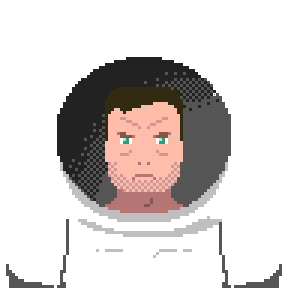
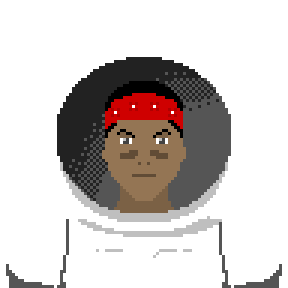
pick diff humans

Changed region(s): [[0.3438, 0.2812, 0.6562, 0.75], [0.7188, 0.2812, 0.75, 0.3125]]

diff --git a/client/src/views.js b/client/src/views.js
@@ -245,7 +245,7 @@ export const Reveal = React.createClass({
   },
 
   render () {
-    const { role, onReady } = this.props;
+    const { role, onReady, index } = this.props;
     const { show, hasShown } = this.state;
     const instruction = supportsMultiTouch() ? 'two-finger press' : 'click and hold';
     return (
@@ -263,7 +263,7 @@ export const Reveal = React.createClass({
           />
           <img
             className={`center-block img-responsive img-reveal img-reveal-${show ? 'opaque' : 'transparent'}`}
-            src={`images/astronaut_${role === WEREWOLF ? 'terror' : 'human'}.png`}
+            src={`images/astronaut_${role === WEREWOLF ? 'terror' : 'human' + (index % 4)}.png`}
             alt="Astronaut Revealed"
           />
         </div>

diff --git a/client/src/App.js b/client/src/App.js
@@ -51,6 +51,7 @@ const Lobby = connect(
 const Reveal = connect(
   state => ({
     role: _.findWhere(state.game.players, {id: state.userId}).role,
+    index: _.findIndex(_.where(state.game.players, {role: VILLAGER}), {id: state.userId}),
   }),
   dispatch => bindActionCreators({ onReady: ready }, dispatch),
 )(views.Reveal);
